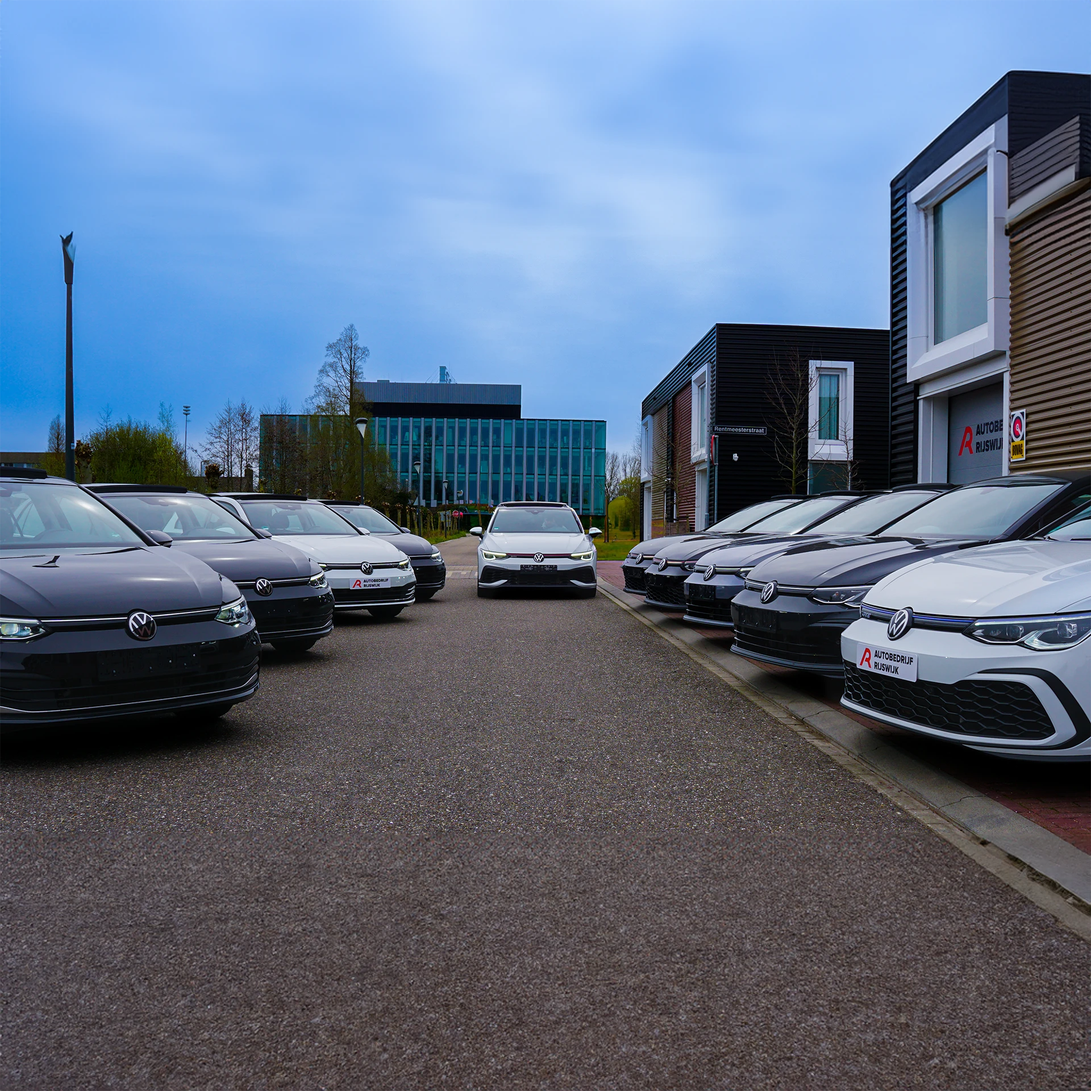
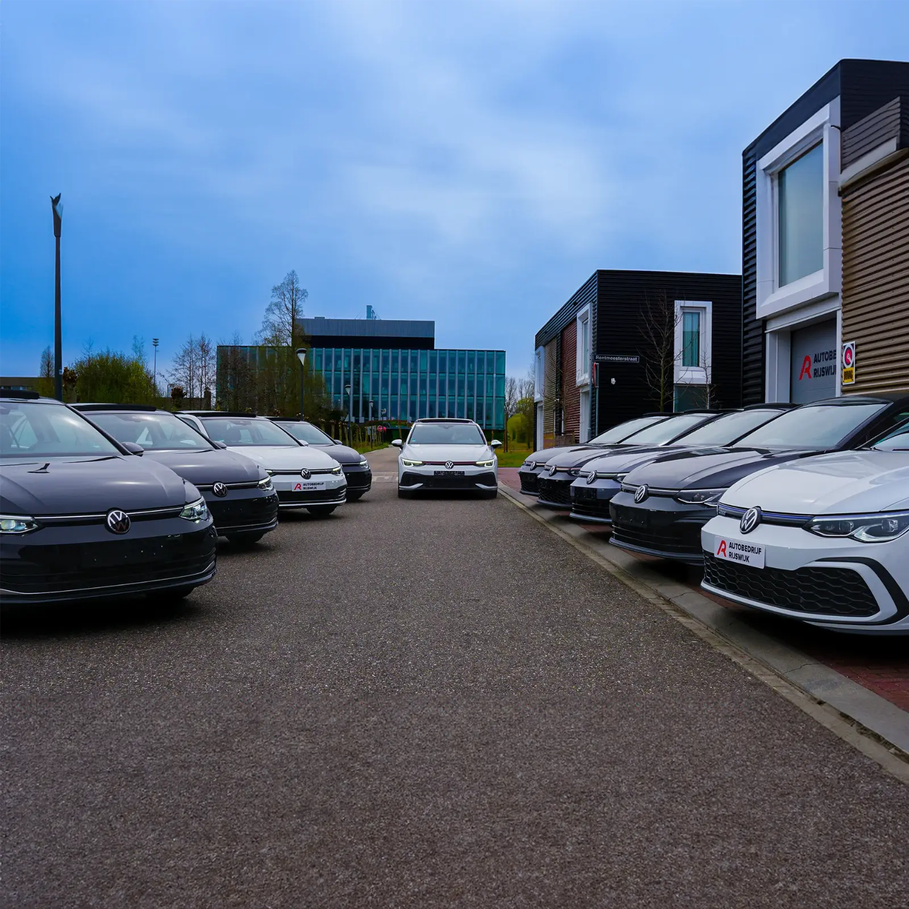
Hero + reviews aangescherpt, foto geoptimaliseerd
- Hero: tekst onderaan verankerd (items-end) zodat 'ie nooit meer met de nav
  botst; toont nu de volledige showroomfoto i.p.v. een strak-gecropte band
- Hero-foto geoptimaliseerd: 800KB -> 245KB (1600px, q72), sneller laden
- Reviews: sectie gevuld met echte Google/Trustindex-reviews van de zaak
  (Martijn J., Teus D., Joze M.) naast de aggregaat + link

diff --git a/resources/views/components/home/reviews.blade.php b/resources/views/components/home/reviews.blade.php
@@ -4,13 +4,15 @@
     $reviewUrl = config('brand.reviews.url');
     $ratingNl = str_replace('.', ',', (string) $rating);
     $fillPct = max(0, min(100, $rating / 5 * 100));
+    $testimonials = config('brand.testimonials', []);
 
     $starPath = 'M11.5 2.8a.6.6 0 0 1 1 0l2.4 5a.6.6 0 0 0 .5.3l5.4.5a.6.6 0 0 1 .3 1l-4 3.6a.6.6 0 0 0-.2.6l1.2 5.3a.6.6 0 0 1-.9.6l-4.6-2.8a.6.6 0 0 0-.6 0l-4.6 2.8a.6.6 0 0 1-.9-.6l1.2-5.3a.6.6 0 0 0-.2-.6l-4-3.6a.6.6 0 0 1 .3-1l5.4-.5a.6.6 0 0 0 .5-.3z';
     $starsRow = str_repeat('<svg viewBox="0 0 24 24" fill="currentColor" class="h-5 w-5 shrink-0"><path d="' . $starPath . '"/></svg>', 5);
+    $starsSmall = str_repeat('<svg viewBox="0 0 24 24" fill="currentColor" class="h-4 w-4 shrink-0 text-brass-400"><path d="' . $starPath . '"/></svg>', 5);
 @endphp
 
 <section {{ $attributes->merge(['class' => 'container-x py-16 lg:py-24']) }}>
-    <div class="mx-auto flex max-w-lg flex-col items-center gap-8 text-center">
+    <div class="mx-auto flex max-w-lg flex-col items-center gap-6 text-center">
         <div>
             <p class="kicker">Klantervaringen</p>
             <h2 class="mt-3 font-display text-3xl font-bold uppercase tracking-tight text-white sm:text-4xl">
@@ -18,33 +20,37 @@
             </h2>
         </div>
 
-        {{-- Google-reviewkaart --}}
-        <div class="w-full rounded-[4px] border border-hairline bg-graphite-700/50 p-8">
-            <div class="flex items-center justify-center gap-2 text-cream/70">
-                <svg viewBox="0 0 48 48" class="h-6 w-6" aria-hidden="true">
-                    <path fill="#4285F4" d="M45.12 24.5c0-1.56-.14-3.06-.4-4.5H24v8.51h11.84c-.51 2.75-2.06 5.08-4.39 6.64v5.52h7.11c4.16-3.83 6.56-9.47 6.56-16.17z"/>
-                    <path fill="#34A853" d="M24 46c5.94 0 10.92-1.97 14.56-5.33l-7.11-5.52c-1.97 1.32-4.49 2.1-7.45 2.1-5.73 0-10.58-3.87-12.31-9.07H4.34v5.7C7.96 41.07 15.4 46 24 46z"/>
-                    <path fill="#FBBC05" d="M11.69 28.18C11.25 26.86 11 25.45 11 24s.25-2.86.69-4.18v-5.7H4.34C2.85 17.09 2 20.45 2 24s.85 6.91 2.34 9.88l7.35-5.7z"/>
-                    <path fill="#EA4335" d="M24 10.75c3.23 0 6.13 1.11 8.41 3.29l6.31-6.31C34.91 4.18 29.93 2 24 2 15.4 2 7.96 6.93 4.34 14.12l7.35 5.7c1.73-5.2 6.58-9.07 12.31-9.07z"/>
-                </svg>
-                <span class="font-mono text-xs uppercase tracking-wider">Google-beoordeling</span>
-            </div>
+        {{-- Google-aggregaat --}}
+        <a href="{{ $reviewUrl }}" target="_blank" rel="noopener"
+           class="inline-flex items-center gap-3 rounded-full border border-hairline bg-graphite-700/60 px-5 py-2.5 transition hover:border-brass-500/40">
+            <span class="font-display text-xl font-bold text-white tabular">{{ $ratingNl }}</span>
+            <span class="relative inline-block">
+                <span class="flex gap-0.5 text-cream/20">{!! $starsRow !!}</span>
+                <span class="absolute inset-0 flex gap-0.5 overflow-hidden text-brass-400" style="width: {{ $fillPct }}%">{!! $starsRow !!}</span>
+            </span>
+            <span class="font-mono text-xs text-cream/60">{{ $count }} Google-reviews</span>
+        </a>
+    </div>
 
-            <div class="mt-5 flex items-center justify-center gap-4">
-                <span class="font-display text-5xl font-bold text-white tabular">{{ $ratingNl }}</span>
-                <div class="text-left">
-                    {{-- Sterren: grijze onderlaag + goud bovenop, geknipt op de score --}}
-                    <div class="relative inline-block">
-                        <div class="flex gap-0.5 text-cream/20">{!! $starsRow !!}</div>
-                        <div class="absolute inset-0 flex gap-0.5 overflow-hidden text-brass-400" style="width: {{ $fillPct }}%">{!! $starsRow !!}</div>
+    {{-- Echte reviews --}}
+    @if (count($testimonials))
+        <div class="mt-12 grid gap-6 md:grid-cols-3">
+            @foreach ($testimonials as $t)
+                <figure class="flex flex-col rounded-[4px] border border-hairline bg-graphite-700/50 p-6">
+                    <div class="flex items-center justify-between">
+                        <span class="flex gap-0.5">{!! $starsSmall !!}</span>
+                        <svg viewBox="0 0 48 48" class="h-4 w-4 opacity-80" aria-hidden="true"><path fill="#4285F4" d="M45.12 24.5c0-1.56-.14-3.06-.4-4.5H24v8.51h11.84c-.51 2.75-2.06 5.08-4.39 6.64v5.52h7.11c4.16-3.83 6.56-9.47 6.56-16.17z"/><path fill="#34A853" d="M24 46c5.94 0 10.92-1.97 14.56-5.33l-7.11-5.52c-1.97 1.32-4.49 2.1-7.45 2.1-5.73 0-10.58-3.87-12.31-9.07H4.34v5.7C7.96 41.07 15.4 46 24 46z"/><path fill="#FBBC05" d="M11.69 28.18C11.25 26.86 11 25.45 11 24s.25-2.86.69-4.18v-5.7H4.34C2.85 17.09 2 20.45 2 24s.85 6.91 2.34 9.88l7.35-5.7z"/><path fill="#EA4335" d="M24 10.75c3.23 0 6.13 1.11 8.41 3.29l6.31-6.31C34.91 4.18 29.93 2 24 2 15.4 2 7.96 6.93 4.34 14.12l7.35 5.7c1.73-5.2 6.58-9.07 12.31-9.07z"/></svg>
                     </div>
-                    <p class="mt-1 text-sm text-cream/60">{{ $count }} reviews</p>
-                </div>
-            </div>
+                    <blockquote class="mt-4 flex-1 text-sm leading-relaxed text-cream/80">“{{ $t['text'] }}”</blockquote>
+                    <figcaption class="mt-5 font-mono text-xs uppercase tracking-wider text-cream/55">{{ $t['name'] }} · Google</figcaption>
+                </figure>
+            @endforeach
+        </div>
 
-            <a href="{{ $reviewUrl }}" target="_blank" rel="noopener" class="btn btn-primary mt-7">
-                Lees onze reviews <x-icon name="arrow-up-right" class="h-4 w-4" />
+        <div class="mt-8 text-center">
+            <a href="{{ $reviewUrl }}" target="_blank" rel="noopener" class="btn btn-outline">
+                Lees alle reviews <x-icon name="arrow-up-right" class="h-4 w-4" />
             </a>
         </div>
-    </div>
+    @endif
 </section>

diff --git a/config/brand.php b/config/brand.php
@@ -81,6 +81,14 @@ return [
         'financiallease_stock_id' => env('BRAND_FL_STOCK_ID', '1262'),
     ],
 
+    // Echte reviews van het Google/Trustindex-profiel van de zaak (verkorte
+    // citaten, geen verzinsels). Vervang eventueel door de live Trustindex-widget.
+    'testimonials' => [
+        ['name' => 'Martijn J.', 'text' => 'Gewoon fantastisch geholpen bij het vinden van mijn droomauto! Van de uitgebreide testrit tot de aflevering was alles uitstekend geregeld. De service is echt top.'],
+        ['name' => 'Teus D.', 'text' => 'Keurig netjes geholpen. Er wordt alle tijd voor je genomen om alle opties goed door te nemen. Uiterst vriendelijk personeel — en de prijzen zijn superscherp.'],
+        ['name' => 'Joze M.', 'text' => 'Zeer vriendelijke ontvangst, heeft alle tijd genomen voor de uitleg. Nette inruilprijs. Kortom: een fijne deal en tevreden met de aankoop.'],
+    ],
+
     // Officiële juridische documenten van de zaak (we verzinnen geen eigen tekst).
     'legal' => [
         'terms_url'   => env('BRAND_TERMS_URL', 'https://autobedrijfrijswijk.nl/algemene-voorwaarden/'),

diff --git a/resources/views/home.blade.php b/resources/views/home.blade.php
@@ -1,6 +1,6 @@
 <x-layouts.public>
     {{-- ═══════════ HERO · echte showroomfoto met tekst eroverheen ═══════════ --}}
-    <section class="relative -mt-[4.5rem] flex min-h-[92vh] items-center overflow-hidden bg-ink pt-[4.5rem]">
+    <section class="relative -mt-[4.5rem] flex min-h-[90vh] items-end overflow-hidden bg-ink pt-[4.5rem]">
         {{-- Echte foto van het wagenpark van de zaak --}}
         <img src="{{ asset('images/hero-showroom.webp') }}" alt="Wagenpark van {{ config('app.name') }}"
              fetchpriority="high" decoding="async"
